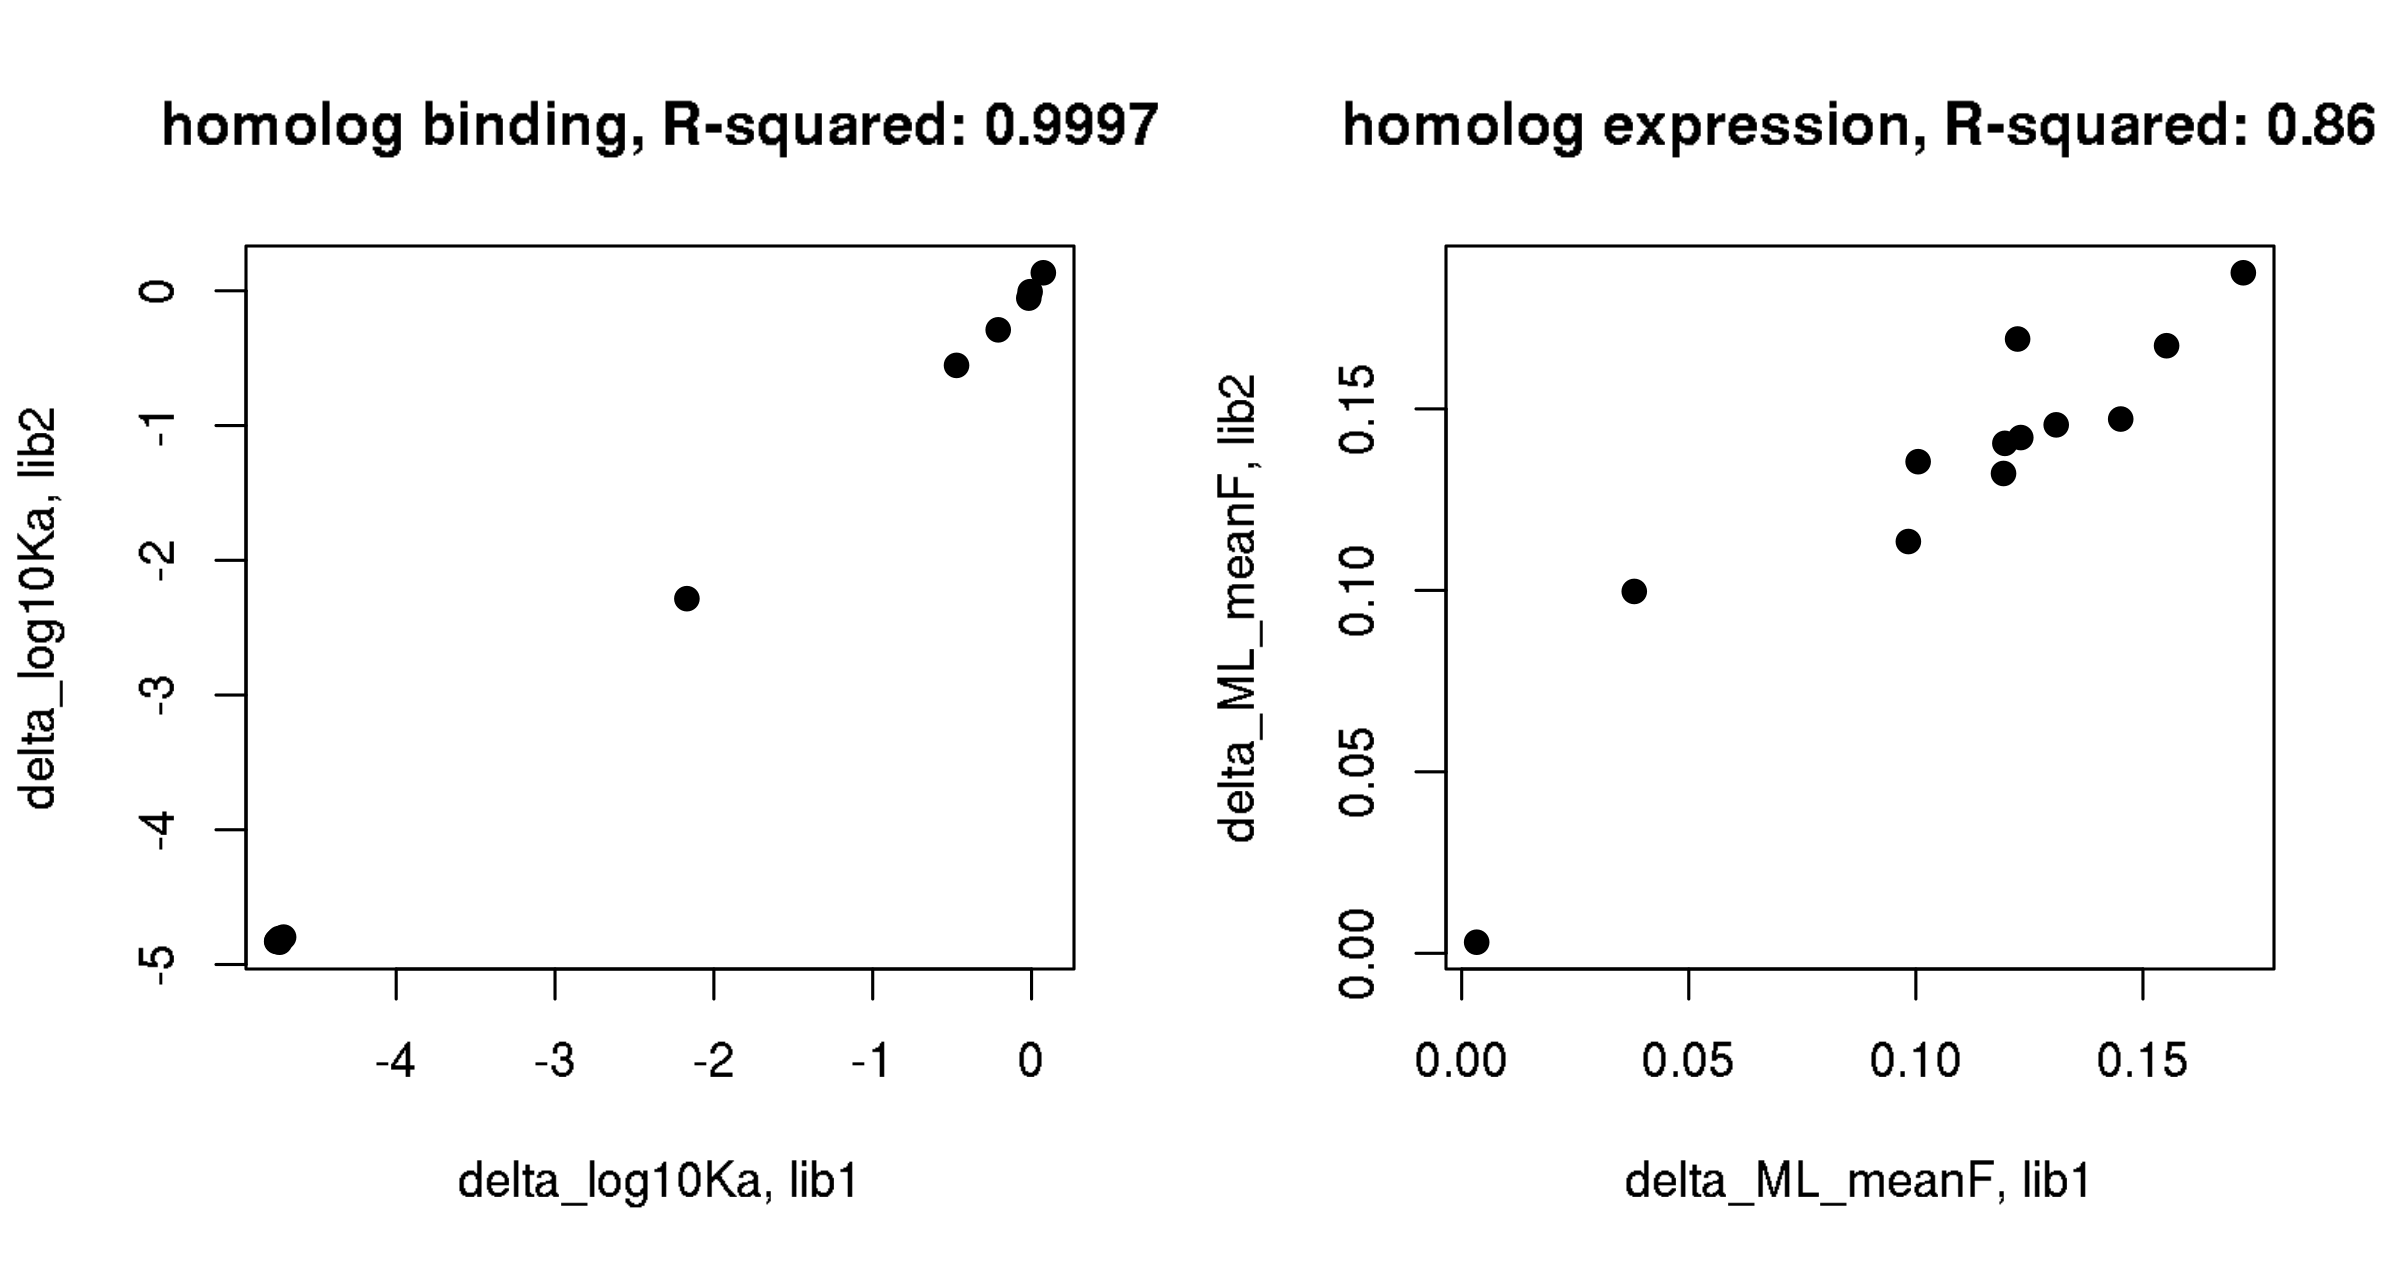
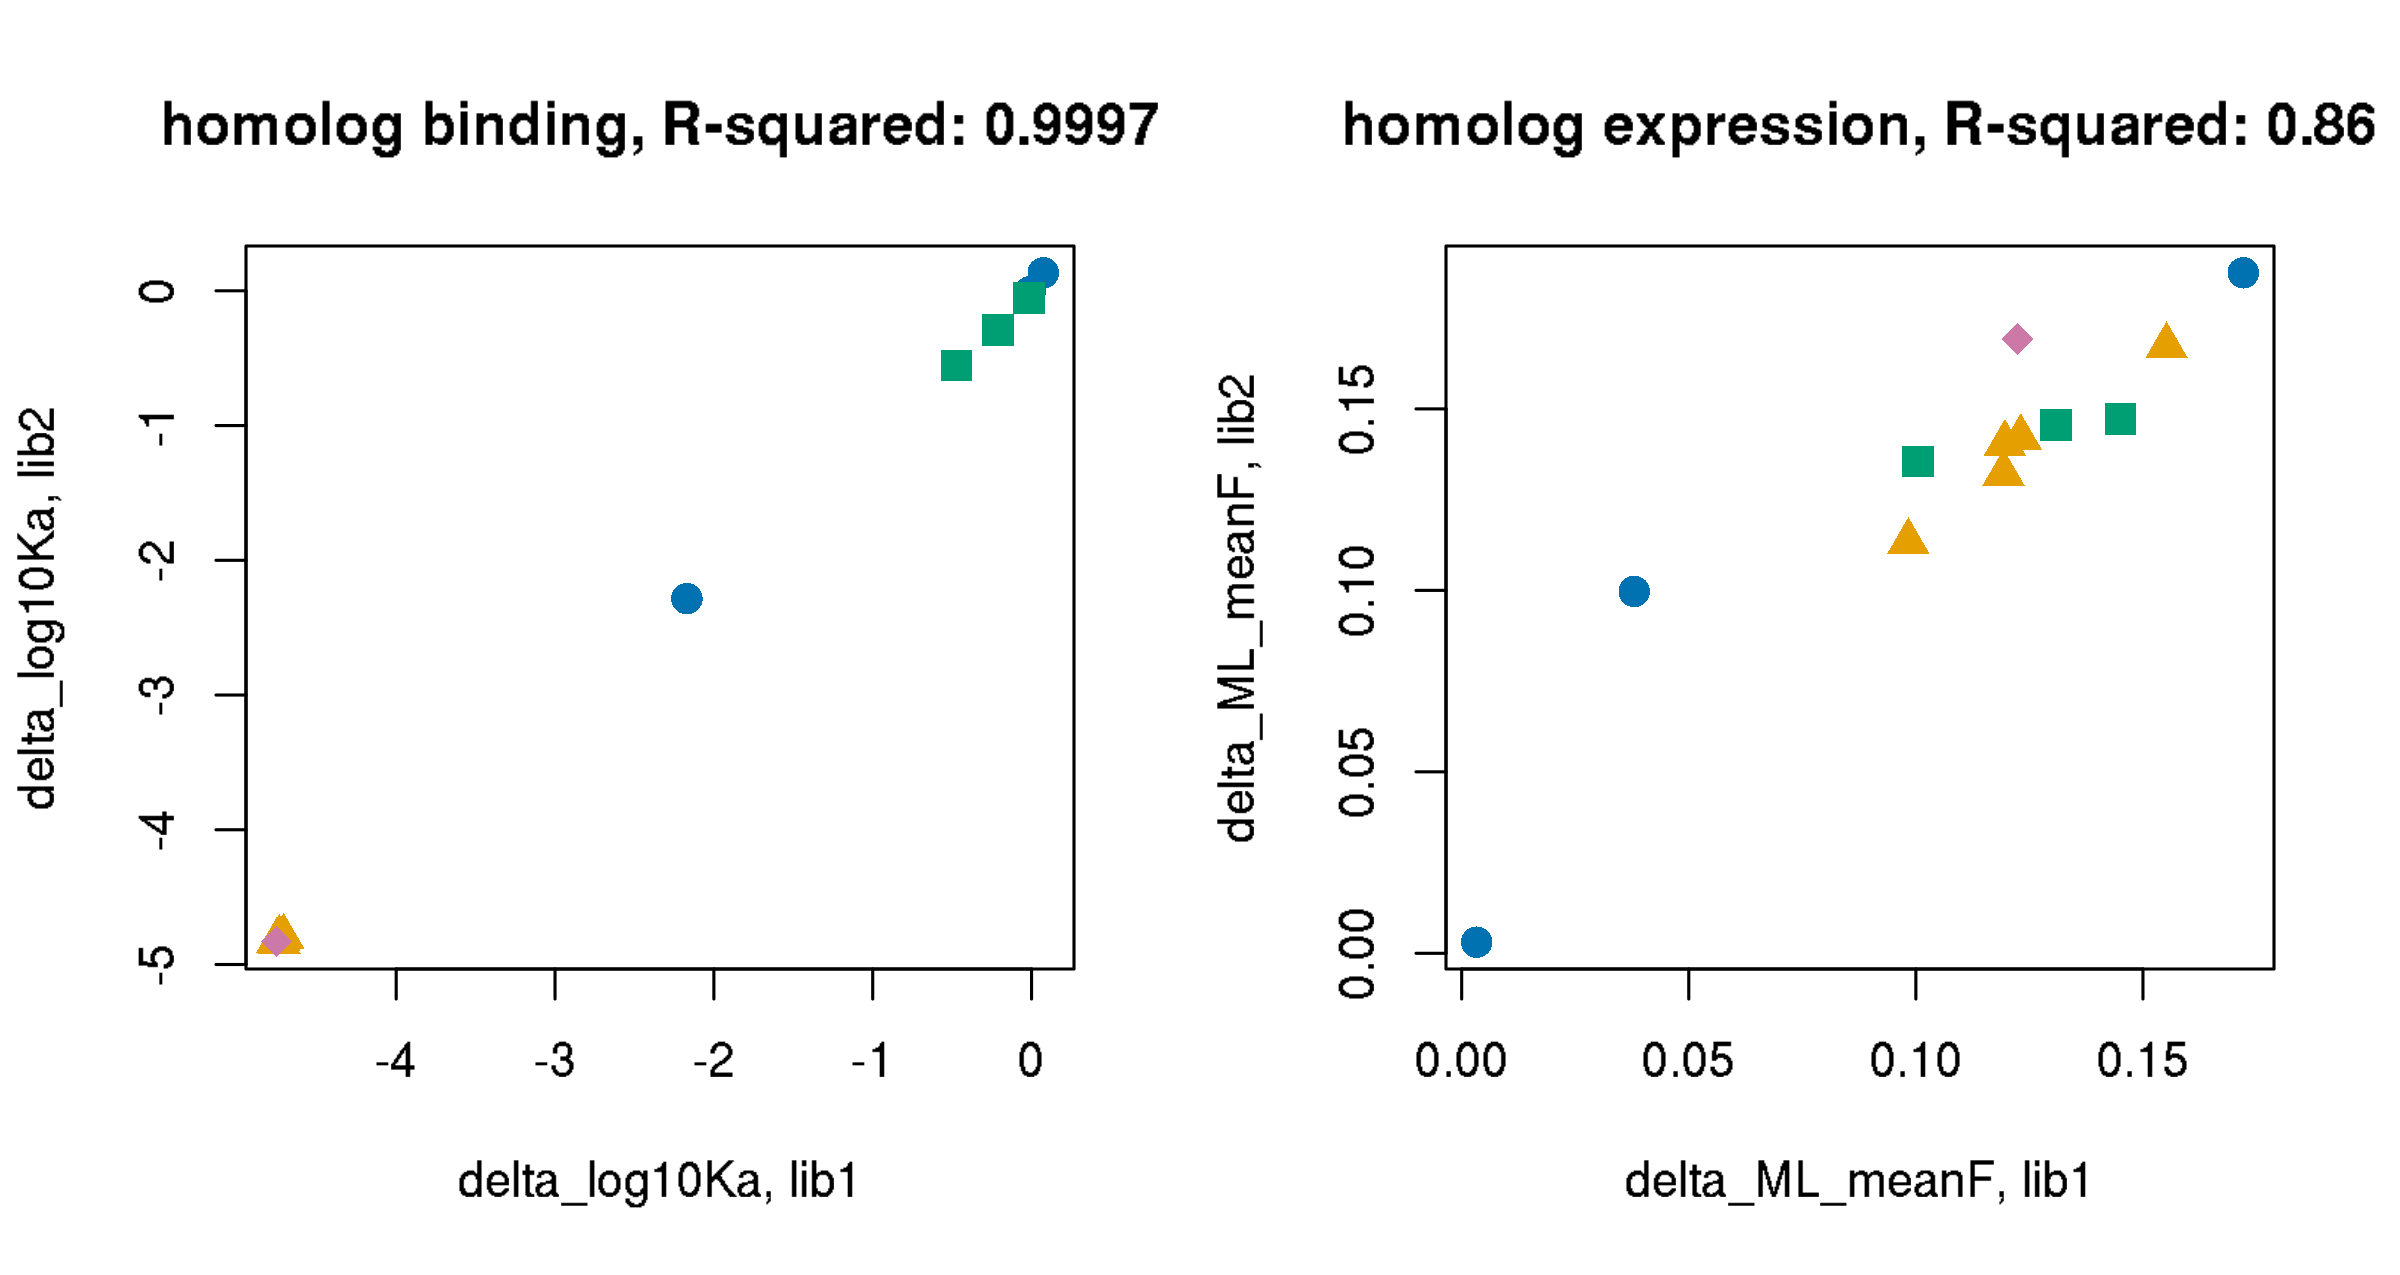
Run snakemake

diff --git a/results/summary/single_mut_effects.md b/results/summary/single_mut_effects.md
@@ -375,6 +375,10 @@ abline(v=median(c(betas[mutant!="*" & wildtype!=mutant & n_bc_1mut_bind_lib1 > 0
 
 <img src="single_mut_effects_files/figure-gfm/bind_effects_direct_singles-1.png" style="display: block; margin: auto;" />
 
+``` r
+invisible(dev.print(pdf, paste(config$single_mut_effects_dir,"/coverage-ecdf_bind.pdf",sep="")))
+```
+
 In lib1, we directly measured the effects of 85.73% of mutations *as
 sole mutations* on at least one barcode background (a higher percentage
 of mutations are sampled more extensively on multiple mutant
@@ -392,6 +396,11 @@ plot(x,y,pch=16,col="#00000067",xlab="lib1 mutational effect from single mut bcs
 ```
 
 <img src="single_mut_effects_files/figure-gfm/bind_effects_direct_singles_plot-1.png" style="display: block; margin: auto;" />
+
+``` r
+invisible(dev.print(pdf, paste(config$single_mut_effects_dir,"/correlation_direct-measured-single-mut_bind.pdf",sep="")))
+```
+
 Let’s look at the sites with directly measured beneficial mutations
 (output below). As you can see
 [here](https://dms-view.github.io/?pdb-url=https%3A%2F%2Fraw.githubusercontent.com%2Fdms-view%2FSARS-CoV-2%2Fmaster%2Fdata%2FSpike%2FBloomLab2020%2F6m0j.pdb&markdown-url=https%3A%2F%2Fraw.githubusercontent.com%2Fdms-view%2FSARS-CoV-2%2Fmaster%2Fdata%2FSpike%2FBloomLab2020%2FBloomLab_rbd.md&data-url=https%3A%2F%2Fraw.githubusercontent.com%2Fdms-view%2FSARS-CoV-2%2Fmaster%2Fdata%2FSpike%2FBloomLab2020%2Fresults%2FBloomLab2020_rbd.csv&condition=natural+frequencies&site_metric=site_entropy&mutation_metric=mut_frequency&selected_sites=367%2C453%2C484%2C498%2C501%2C505%2C528),
@@ -464,6 +473,10 @@ plot(x,y,pch=16,col="#00000067",xlab="average lib1&lib2 beta",ylab="direct singl
 
 <img src="single_mut_effects_files/figure-gfm/bind_avg_coefs_v_direct_singles-1.png" style="display: block; margin: auto;" />
 
+``` r
+invisible(dev.print(pdf, paste(config$single_mut_effects_dir,"/correlation_global-epistasis_v_direct-observed-singles_bind.pdf",sep="")))
+```
+
 In comparing model coefficients to the directly sampled single mutants,
 it *does* seem like the latent-scale beneficial mutations are not
 necessarily observed to enhance affinity when measured directly as
@@ -525,6 +538,10 @@ plot(x,y,pch=16,col="#00000067",xlab="libX beta coefficient, Cauchy observed",yl
 
 <img src="single_mut_effects_files/figure-gfm/bind_lib1_coef_v_lib2_direct-1.png" style="display: block; margin: auto;" />
 
+``` r
+invisible(dev.print(pdf, paste(config$single_mut_effects_dir,"/correlation_global-epistasis_v_direct-observed-singles_bind_one-lib-only.pdf",sep="")))
+```
+
 For mutations that are not sampled as single mutants in either library,
 we cannot of course compare to any direct measurements, but we can
 simply see how well correlated the two replicate model beta coefficients
@@ -550,6 +567,10 @@ plot(x,y,pch=16,col="#00000067",xlab="lib1 beta coefficient, Cauchy observed",yl
 ```
 
 <img src="single_mut_effects_files/figure-gfm/bind_coef_no_direct-1.png" style="display: block; margin: auto;" />
+
+``` r
+invisible(dev.print(pdf, paste(config$single_mut_effects_dir,"/correlation_global-epistasis-coefs_no-direct-measure-values_bind.pdf",sep="")))
+```
 
 Overall, my intuition from looking at the mutations with positive
 latent-scale versus directly measured beneficial effects, along with the
@@ -708,6 +729,11 @@ plot(x,y,pch=16,col="#00000067",xlab="lib1 beta (no nonlinearity)",ylab="lib2 be
 ```
 
 <img src="single_mut_effects_files/figure-gfm/betas_expr_lib1_v_lib2_filtered-1.png" style="display: block; margin: auto;" />
+
+``` r
+invisible(dev.print(pdf, paste(config$single_mut_effects_dir,"/correlation_global-epiistasis-coefs_expr.pdf",sep="")))
+```
+
 We can see once again that the correlation in estimates of single
 mutation effects is better when accounting for nonlinearity in the mean
 fluorescence expression metric – this shows that the global epistasis
@@ -761,6 +787,10 @@ abline(v=median(betas[mutant!="*" & wildtype!=mutant,n_bc_1mut_expr_lib1+n_bc_1m
 
 ![](single_mut_effects_files/figure-gfm/expr_effects_direct_singles-1.png)<!-- -->
 
+``` r
+invisible(dev.print(pdf, paste(config$single_mut_effects_dir,"/coverage-ecdf_expr.pdf",sep="")))
+```
+
 In lib1, we directly measured the effects of 86.12% of mutations *as
 sole mutations* on at least one barcode background (a higher percentage
 of mutations are sampled more extensively on multiple mutant
@@ -778,6 +808,11 @@ plot(x,y,pch=16,col="#00000067",xlab="lib1 mutational effect from single mut bcs
 ```
 
 <img src="single_mut_effects_files/figure-gfm/expr_effects_direct_singles_plot-1.png" style="display: block; margin: auto;" />
+
+``` r
+invisible(dev.print(pdf, paste(config$single_mut_effects_dir,"/correlation_direct-measured-single-mut_expr.pdf",sep="")))
+```
+
 In this case, in contrast to the binding measurements, we do *not* see
 better correlation between direct single measurements compared to the
 correlation in the model-predicted observed-scale effects. This isn’t
@@ -916,9 +951,16 @@ bc_homologs_expr <- data.table(read.csv(file=config$expression_sortseq_homologs_
 
 bc_homologs_expr[target=="SARS-CoV",target:="SARS-CoV-1"]
 
-homologs <- data.frame(homolog=factor(c("SARS-CoV-2","GD-Pangolin","RaTG13","SARS-CoV-1","WIV16","LYRa11","ZC45","ZXC21","HKU3-1","Rf1","Rp3","BM48-31"),
+homologs <- data.table(homolog=factor(c("SARS-CoV-2","GD-Pangolin","RaTG13","SARS-CoV-1","WIV16","LYRa11","ZC45","ZXC21","HKU3-1","Rf1","Rp3","BM48-31"),
                                       levels=c("SARS-CoV-2","GD-Pangolin","RaTG13","SARS-CoV-1","WIV16","LYRa11","ZC45","ZXC21","HKU3-1","Rf1","Rp3","BM48-31")),
                        clade=c("SARS-CoV-2","SARS-CoV-2","SARS-CoV-2","Clade 1","Clade 1","Clade 1","Clade 2", "Clade 2","Clade 2","Clade 2","Clade 2","Clade 3"))
+
+#add color column to homologs, by clade
+cbPalette <- c("#999999", "#E69F00", "#56B4E9", "#009E73", "#F0E442", "#0072B2", "#D55E00", "#CC79A7")
+homologs$clade_color <- as.character(NA); homologs[clade=="Clade 1",clade_color := cbPalette[4]]; homologs[clade=="Clade 2",clade_color := cbPalette[2]]; homologs[clade=="Clade 3",clade_color := cbPalette[8]]; homologs[clade=="SARS-CoV-2",clade_color := cbPalette[6]]
+#add plottiing character to homologs, by clade
+homologs$clade_pch <- as.numeric(NA); homologs[clade=="Clade 1",clade_pch := 15]; homologs[clade=="Clade 2",clade_pch := 17]; homologs[clade=="Clade 3",clade_pch := 18]; homologs[clade=="SARS-CoV-2",clade_pch  := 16]
+
 
 for(i in 1:nrow(homologs)){
   bind_lib1 <- bc_homologs_bind[library=="lib1" & target==as.character(homologs$homolog[i]),delta_log10Ka]
@@ -952,24 +994,28 @@ RBDs were completely non-expressing.
 ``` r
 par(mfrow=c(1,2))
 x <- homologs$bind_lib1; y <- homologs$bind_lib2; fit <- lm(y~x)
-plot(x,y,pch=19,xlab="delta_log10Ka, lib1",ylab="delta_log10Ka, lib2",main=paste("homolog binding, R-squared:",round(summary(fit)$r.squared,digits=4)))
+plot(x,y,pch=homologs$clade_pch,col=homologs$clade_color,xlab="delta_log10Ka, lib1",ylab="delta_log10Ka, lib2",main=paste("homolog binding, R-squared:",round(summary(fit)$r.squared,digits=4)),cex=1.4)
 
 x <- homologs$expr_lib1; y <- homologs$expr_lib2; fit <- lm(y~x)
-plot(x,y,pch=19,xlab="delta_ML_meanF, lib1",ylab="delta_ML_meanF, lib2",main=paste("homolog expression, R-squared:",round(summary(fit)$r.squared,digits=3)))
+plot(x,y,,pch=homologs$clade_pch,col=homologs$clade_color,xlab="delta_ML_meanF, lib1",ylab="delta_ML_meanF, lib2",main=paste("homolog expression, R-squared:",round(summary(fit)$r.squared,digits=3)),cex=1.4)
 ```
 
 <img src="single_mut_effects_files/figure-gfm/homologs_lib1_lib2_correlation-1.png" style="display: block; margin: auto;" />
+
+``` r
+invisible(dev.print(pdf, paste(config$single_mut_effects_dir,"/correlation_homolog-replicate-libraries_bind-expr.pdf",sep="")))
+```
 
 Output the summarized homolog phenotype scores into a table for
 downstream analysis and sharing.
 
 ``` r
-homologs %>%
+homologs[,-c("clade_color","clade_pch")] %>%
   mutate_if(is.numeric, round, digits=4) %>%
   write.csv(file=config$homolog_effects_file, row.names=F)
 ```
 
-## Validation of bulk phenotypes with isogenic experiments
+## Validation of bulk phenotypes with additional experiments
 
 We have conducted two series of isogenic titration assays which can
 validate our bulk phenotypes for binding and expression effects. The
@@ -979,11 +1025,75 @@ single mutants to SARS-CoV-2. We fit titration curves to these isogenic
 experiments, and here we correlate these isogenic binding and expression
 phenotypes with those determined in the DMS assays.
 
-First, homolog panel:
+First, let’s read in the summary data from homolog titrations reported
+in `data/isogenic_titrations`. We convert the *K*<sub>D,app</sub>
+measurements into our log<sub>10</sub>(*K*<sub>A,app</sub>) scale,
+censoring the nonbinders to the same value censored in the bulk
+experiments (and removing the nonsensical SE estimates on these values
+since they were the bounded Kd fit, anyway), and propagating the
+titration curve fit estimate of standard error in the Kd measurement. We
+then plot isogenic versus bulk delta\_log10Ka versus SARS-CoV-2
+wildtype. We can see on the left, below, that our isogenic titrations of
+these homologs correlate extremely well with the measurements we made in
+the bulk DMS assay.
+
+We repeat this plotting for the bulk DMS expression data, which does not
+validate as well in the isogenic measurements – this is more or less
+expected. The expression measurements are not as quality to begin with,
+and they’re even worse in the isogenic context (as evidenced by the
+large standard error bars). One major complication, is that in the bulk
+Sort-seq measurements, we are not interefered in our measurement by the
+FITC- mode that is always present in a population due to presumable
+plasmid loss (reported in other papers, too) – because only FITC- cells
+that are there because of low expression per se (rather than plasmid
+loss) grow out in the post-sort growth prior to PCR and sequencing, we
+effectively “see” the true negatives and therefore the entire FITC
+distribution. In the isogenic data, we filter out the FITC-
+observations, because we are simply measuring fluorescence without
+sorting and therefore cannot deconvolve the large negative mode due to
+plasmid loss. Furthermore, because the homologs all have such a tight
+distribution of expression relative to the effect of single mutants,
+this is a very small window of phenotypic variability in which we are
+trying to assess correlation using a measurement with high experimental
+variability. This may improve when we add some single mutant validations
+with larger measured expression defecits.
+
+<img src="single_mut_effects_files/figure-gfm/homolog_isogenic_validations-1.png" style="display: block; margin: auto;" />
 
 Second, single mutants of SARS-CoV-2:
 
-## Relationship between expression and binding fits at a per-barcode level
+Furthermore, we can turn to other assays to validate the context of our
+yeast-based DMS measurements. First, we look at the functional
+measurements from [Letko et
+al. 2020](https://www.nature.com/articles/s41564-020-0688-y), who
+determined the ability of all RBD variants known at that time (so, no
+RaTG13 or Pangolin RBD) to enter cells as chimeras with SARS-CoV-1 Spike
+in VSV-G pseudotyped viruses and a luciferase reporter of cellular
+entry. We integrated measurements across several of their experimental
+panels, including Figs. 1e, 2a and 3b, and 3d. For 1e, 2a, and 3d, entry
+was measured in ACE2-expressing BHK cells, so the experiments should be
+more directly comparable – in 3b, they measured entry into Vero cells.
+For each experiment, we calculate the mean entry from triplicate
+measurements, and calculate the variant fold-entry relative to the mean
+SARS-CoV-1 entry (which is present in each panel). We then calculate the
+mean and SEM across each of the experiments for which a genotype was
+measured. We present comparisons of our measurements to the average
+fold-entry relative to SARS-CoV-1 across all four experiments on the
+left, and just the BHK experiments on the right. Error bars are SEM from
+between 2 and 4 measurements; the SARS-CoV-1 point does not have error
+bars as it is defined as 1 across each experiment, and SARS-CoV-2 does
+not have error bars because it was only included in one of the
+experiments. As we can see below, the variants for which we measure no
+binding also do not support cellular entry. Among the genotypes for
+which we measure quantitative differences in binding affinity, we can
+see these differences correlate with the extent of cellular entry,
+though the functional entry measurements show some variability depending
+whether or not we include the additional Vero cells measurements.
+(Should we “break” the y-axis to more clearly present these data?)
+
+<img src="single_mut_effects_files/figure-gfm/homologs_DMS_v_functional_pvirus_entry-1.png" style="display: block; margin: auto;" />
+\#\# Relationship between expression and binding fits at a per-barcode
+level
 
 In theory, titration assays should normalize out expression effects of
 mutations, and therefore be less susceptiible to expression-induced

diff --git a/results/summary/circulating_variants.md b/results/summary/circulating_variants.md
@@ -43,7 +43,7 @@ sessionInfo()
 
     ## R version 3.6.1 (2019-07-05)
     ## Platform: x86_64-pc-linux-gnu (64-bit)
-    ## Running under: Ubuntu 14.04.6 LTS
+    ## Running under: Ubuntu 14.04.5 LTS
     ## 
     ## Matrix products: default
     ## BLAS/LAPACK: /app/easybuild/software/OpenBLAS/0.2.18-GCC-5.4.0-2.26-LAPACK-3.6.1/lib/libopenblas_prescottp-r0.2.18.so

diff --git a/results/summary/sarbecovirus_diversity.md b/results/summary/sarbecovirus_diversity.md
@@ -43,7 +43,7 @@ sessionInfo()
 
     ## R version 3.6.1 (2019-07-05)
     ## Platform: x86_64-pc-linux-gnu (64-bit)
-    ## Running under: Ubuntu 14.04.6 LTS
+    ## Running under: Ubuntu 14.04.5 LTS
     ## 
     ## Matrix products: default
     ## BLAS/LAPACK: /app/easybuild/software/OpenBLAS/0.2.18-GCC-5.4.0-2.26-LAPACK-3.6.1/lib/libopenblas_prescottp-r0.2.18.so

diff --git a/results/summary/structure_function.md b/results/summary/structure_function.md
@@ -44,7 +44,7 @@ sessionInfo()
 
     ## R version 3.6.1 (2019-07-05)
     ## Platform: x86_64-pc-linux-gnu (64-bit)
-    ## Running under: Ubuntu 14.04.6 LTS
+    ## Running under: Ubuntu 14.04.5 LTS
     ## 
     ## Matrix products: default
     ## BLAS/LAPACK: /app/easybuild/software/OpenBLAS/0.2.18-GCC-5.4.0-2.26-LAPACK-3.6.1/lib/libopenblas_prescottp-r0.2.18.so
